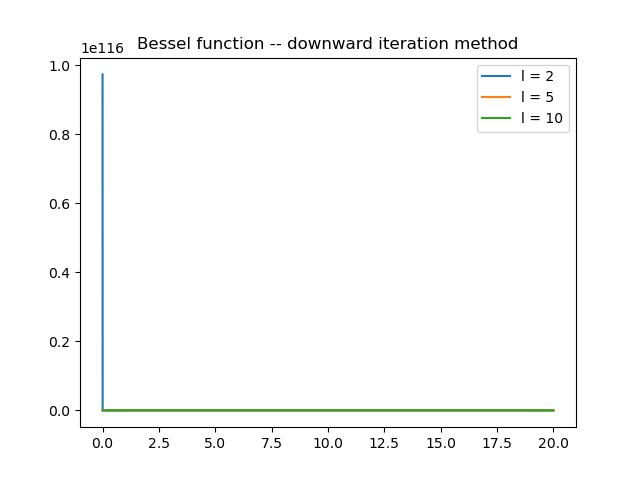
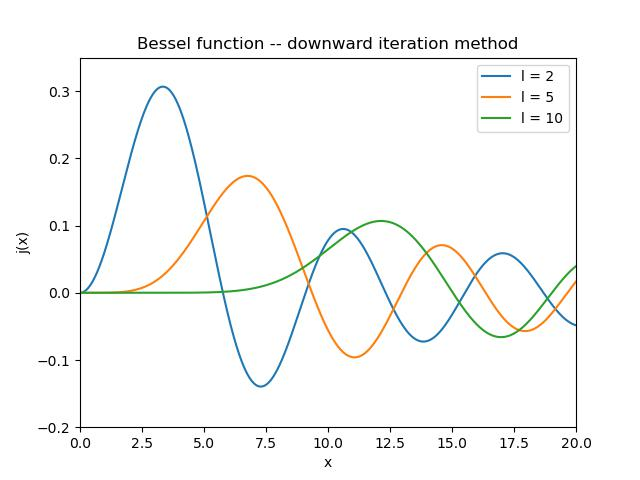
作业2代码部分完成

diff --git a/作业2/Practice1.py b/作业2/Practice1.py
@@ -7,7 +7,10 @@ def j_0(x):
     '''
     0th order Bessel function
     '''
-    y = math.sin(x)/x
+    if x == 0:
+        y = 1
+    else:
+        y = math.sin(x)/x
     return y
 
 
@@ -15,23 +18,30 @@ def j_1(x):
     '''
     1st order Bessel function
     '''
-    y1 = math.sin(x)/x**2
-    y2 = math.cos(x)/x
-    return y1-y2
+    if x == 0:
+        y = 0
+    else:
+        y1 = math.sin(x)/x**2
+        y2 = math.cos(x)/x
+        y = y1-y2
+    return y
+
 
 def j_0_star(x):
     '''
     Reciprocal 0th order Bessel function for backpropagation
     '''
-    y = 0
+    y = 1
     return y
+
 
 def j_1_star(x):
     '''
     Reciprocal first order Bessel function
     '''
-    y = x*1e-5   # here is converted according to the result of upward recursion
+    y = 1
     return y
+
 
 def BesselUpward(x_list, l_max):
     '''
@@ -59,9 +69,11 @@ def BesselUpward(x_list, l_max):
         DataSet.append(y_l)
     return DataSet
 
+
 def BesselDownward(x_list, l_max):
     '''
     The specific calculation of the Bessel function using downward method
+    Normalization by the 0th order Bessel function using relative value invariance
     Args:
         x_list (list[float]): The x array to be calculated
         l_max (int): The highest order of the Bessel function to be computed
@@ -69,8 +81,8 @@ def BesselDownward(x_list, l_max):
         DataSet: A two-dimensional array, each outer element represents the corresponding point value of the l-th order Bessel function
     '''
     DataSet = []  # A two-dimensional data set for storing curves
-    for k in range(l_max+2):
-        y_l = []
+    for k in range(l_max+1):
+        y_k = []
         n = 0
         for x in x_list:
             if k == 0:
@@ -81,8 +93,15 @@ def BesselDownward(x_list, l_max):
                 # Solve using recurrence relation
                 y = (2*(l_max-k)+3)*DataSet[k-1][n]/x - DataSet[k-2][n]
                 n += 1
-            y_l.append(y)
-        DataSet.append(y_l)
+            y_k.append(y)
+        DataSet.append(y_k)
+    # Normalized
+    for k in range(l_max+1):
+        n = 0
+        for Bessel_y_k in DataSet[k]:
+            DataSet[k][n] = Bessel_y_k * j_0(x_list[n])/DataSet[l_max][n]
+            n += 1
+    
     return DataSet
 
 
@@ -90,7 +109,7 @@ if __name__ == "__main__":
     modes = ['upward', 'downward']
     for mode in modes:
         if mode == 'upward':
-            x_min = 1.0
+            x_min = 1e-5
             x_max = 20.0
             l_max = 30
             step = 0.001
@@ -101,11 +120,16 @@ if __name__ == "__main__":
             # Use matplotlib to draw pictures
             DrawNum = [2, 5, 10]
             for l_draw in DrawNum:
-                plt.plot(x_list, BesselDataset[l_draw], label = "l = "+ str(l_draw))
+                plt.plot(x_list, BesselDataset[l_draw],
+                         label="l = " + str(l_draw))
             plt.title('Bessel function -- upward iteration method')
-            plt.legend() 
-            plt.savefig('./作业2/ResultUpward.jpg') 
-            plt.close() 
+            plt.xlim([0, x_max])
+            plt.ylim([-0.2, 0.35])
+            plt.xlabel("x")
+            plt.ylabel("j(x)")
+            plt.legend()
+            plt.savefig('./作业2/ResultUpward.jpg')
+            plt.close()
             # plt.show()
         if mode == 'downward':
             x_min = 0.001
@@ -115,12 +139,19 @@ if __name__ == "__main__":
 
             x_list = np.arange(x_min, x_max, step).tolist()
             BesselDataset = BesselDownward(x_list, l_max)
+
             # Use matplotlib to draw pictures
             DrawNum = [2, 5, 10]
+            # DrawNum = [0, 1, 2]
             for l_draw in DrawNum:
-                k_draw = l_max + 1 - l_draw 
-                plt.plot(x_list, BesselDataset[k_draw], label = "l = "+ str(l_draw))
+                k_draw = l_max - l_draw
+                plt.plot(x_list, BesselDataset[k_draw],
+                         label="l = " + str(l_draw))
             plt.title('Bessel function -- downward iteration method')
-            plt.legend() 
-            plt.savefig('./作业2/ResultDownward.jpg') 
+            plt.xlim([0, x_max])
+            plt.ylim([-0.2, 0.35])
+            plt.xlabel("x")
+            plt.ylabel("j(x)")
+            plt.legend()
+            plt.savefig('./作业2/ResultDownward.jpg')
             plt.close()
